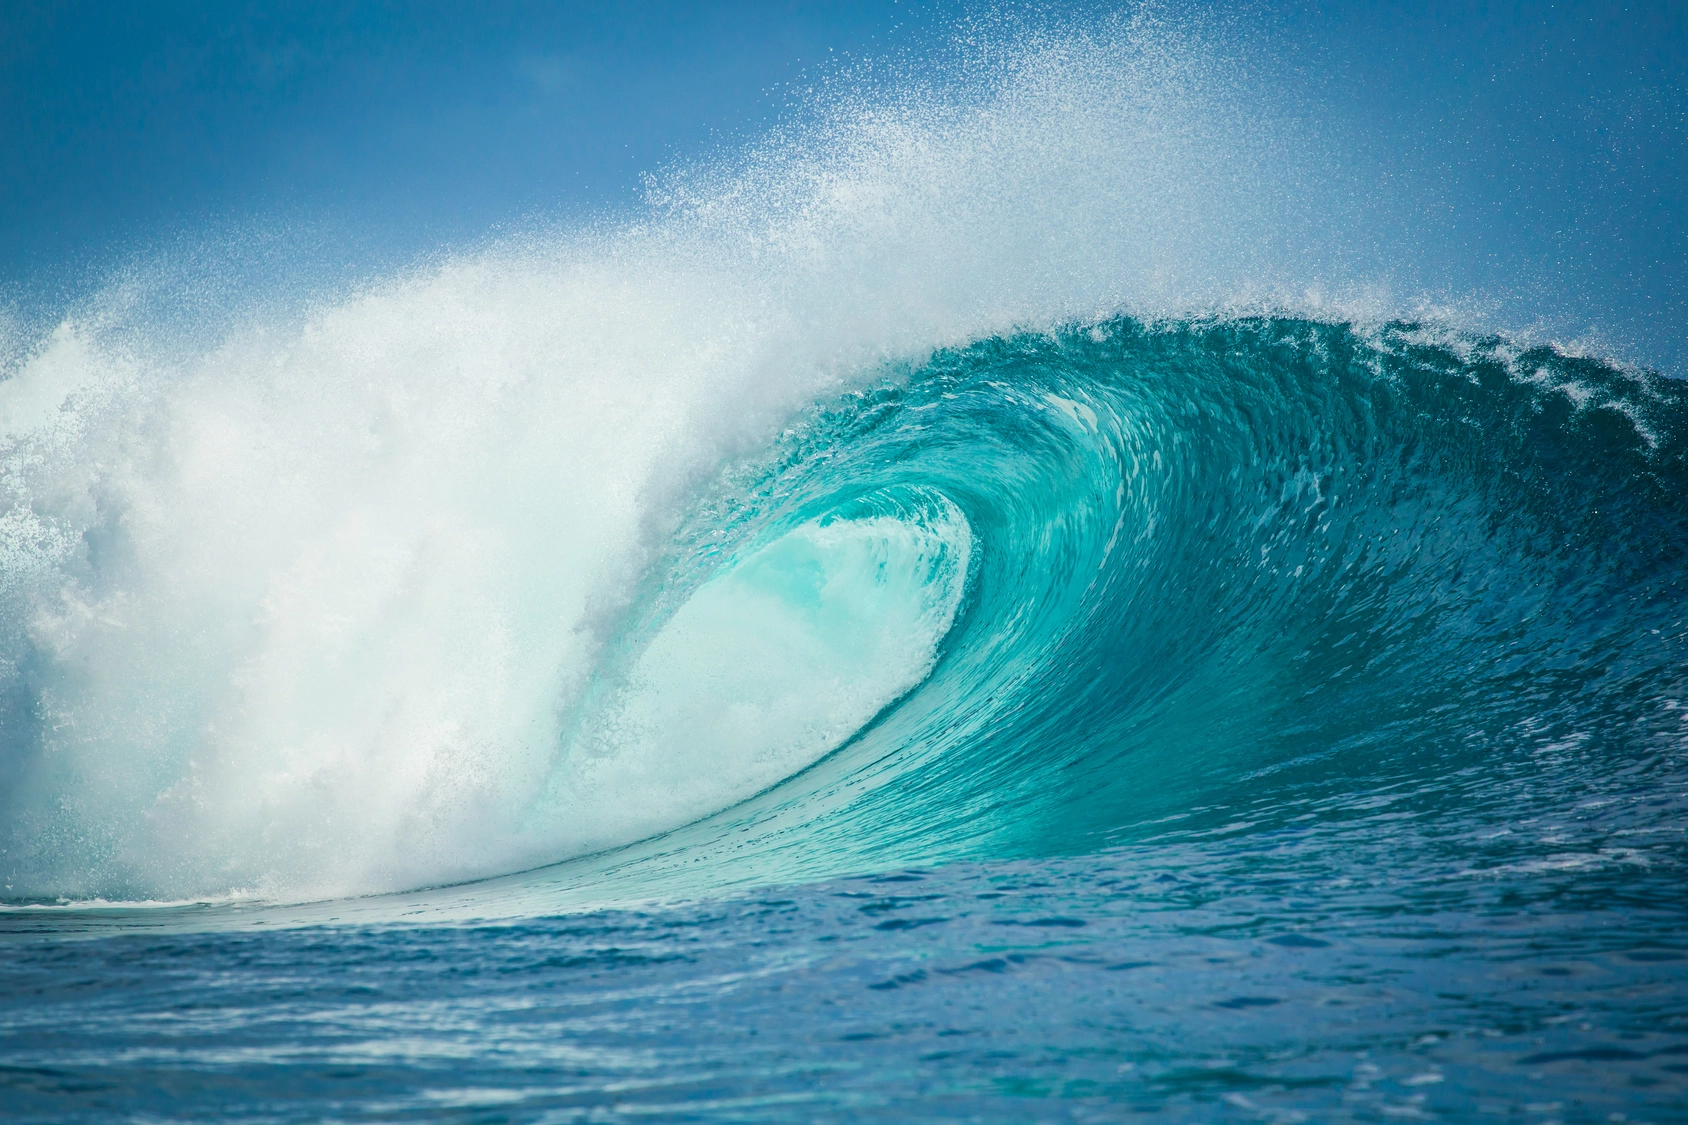
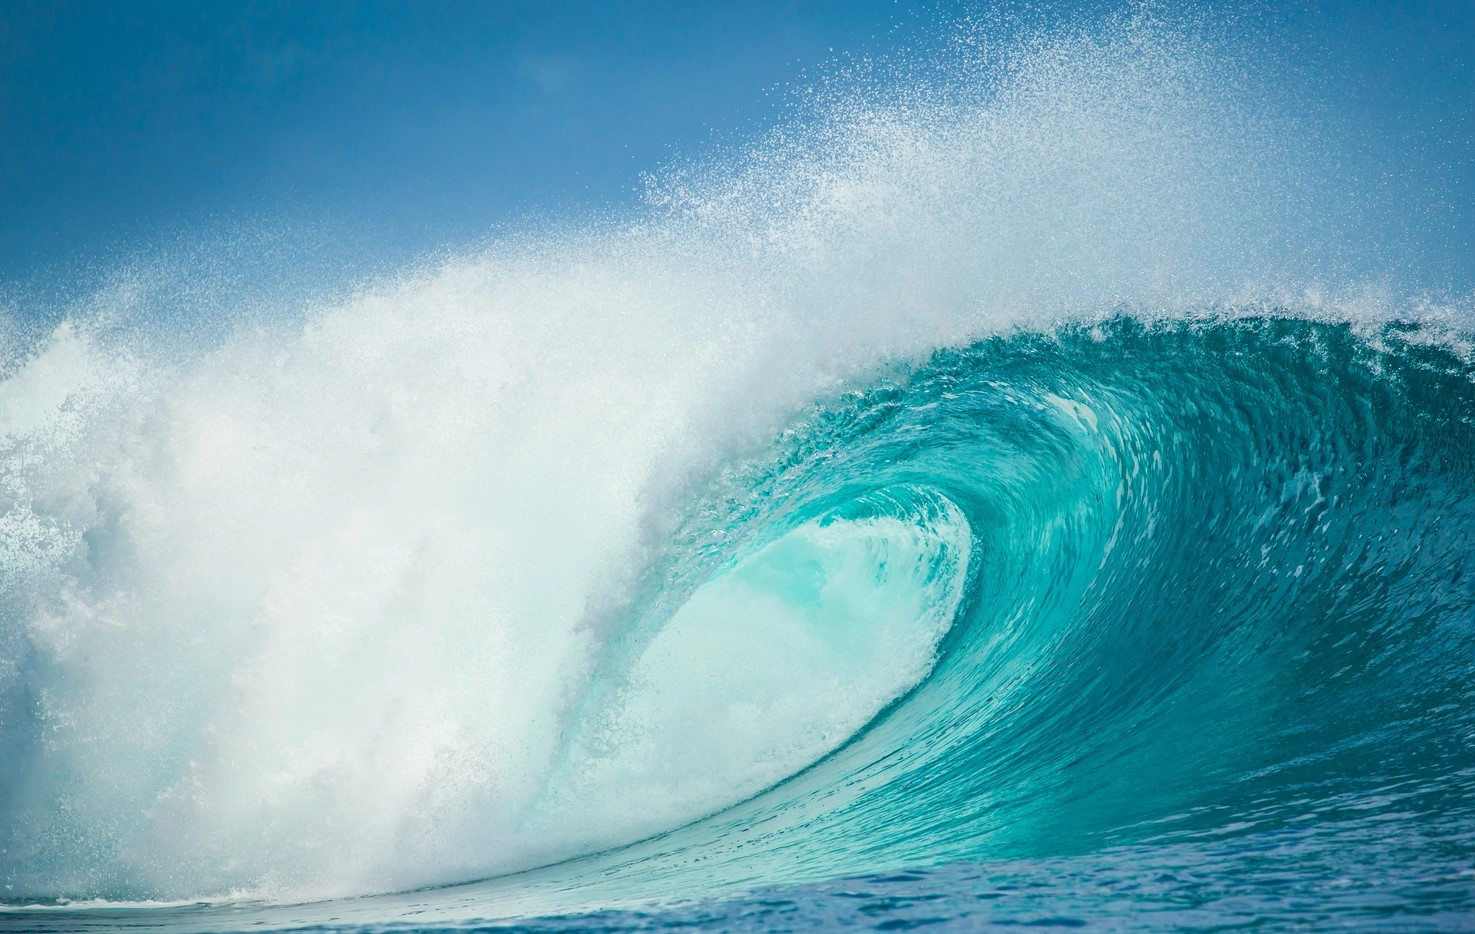
vague nouv

diff --git a/accueil.css b/accueil.css
@@ -4,14 +4,16 @@ body{
     border: 10px solid;
     font-size: 25px;
     border-radius: 0px;
-    background-color: darkorange;
+    background-color: rgb(0, 140, 247);
 }
 .banniere {
     padding: 150px; 
-    background-image:"vague.JPG";
-    background-size:cover;
+    background-image: url("/Image/vague.JPG");
+    background-size:auto;
     margin: 0px;
     text-align: center;
+    width: 1585px;
+    height: 500px;
 }
 .elem1{
     color: red;
